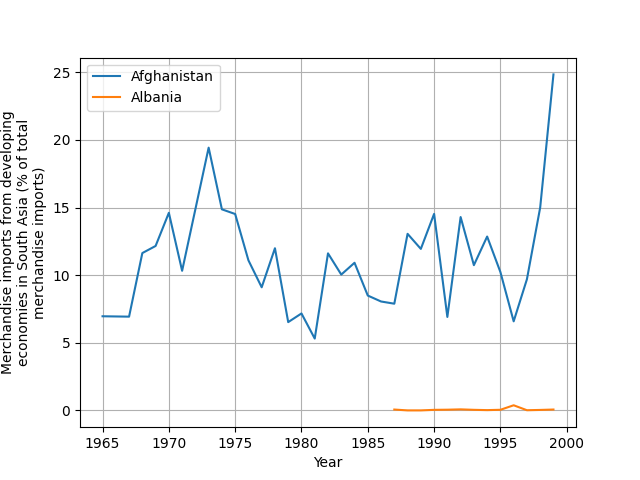
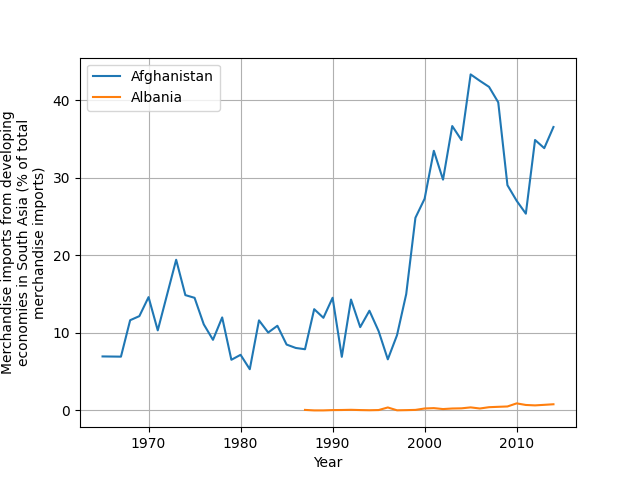
migrated code to run on server.py

diff --git a/world_bank_connect/worldbank_connect.py b/world_bank_connect/worldbank_connect.py
@@ -4,7 +4,7 @@ import psycopg2
 import psycopg2.extras
 from dotenv import load_dotenv
 from flask_cors import CORS
-from plot_graphs import plot_graph
+from world_bank_connect.plot_graphs import plot_graph
 import json
 
 load_dotenv()
@@ -60,18 +60,20 @@ def search():
     error_handler = {'OKAY': '', 'NOINDICATORS': 'Please select an indicator',
                      'LENGTH=0': 'Please select countries and indicator(s)'}
     if request.method == 'POST':
-        # inp = jsonify({'country': ['Afghanistan', 'Albania'], 'indicator': [
-        #               'Merchandise imports from developing economies in South Asia (% of total merchandise imports)'], 'range': ['1964', '1999']})
-        search = request.json
+        inp = jsonify({'country': ['Afghanistan', 'Albania'], 'indicator': [
+                      'Merchandise imports from developing economies in South Asia (% of total merchandise imports)'], 'range': ['1964', '2020']})
+        print(inp)
+        search = inp.json
         error_message = validate_input(search)
         start = search['range'][0]
         end = search['range'][1]
         query = "SELECT countryname,value,year FROM public.indicators WHERE countryname IN %s AND indicatorname IN %s AND year BETWEEN %s AND %s"
+        print(search)
         params = get_params(search)
         results = query_bank_db(query, params)
         plot_graph(results, search['indicator'])
         response = {'results': results, 'errors': error_message}
-        return send_file('./plots/plot.png')
+        return send_file('./world_bank_connect/plots/plot.png')
 
 
 @app.route('/general', methods=['GET'])

diff --git a/server.py b/server.py
@@ -2,7 +2,7 @@ from flask import Flask, current_app, jsonify, request
 from UserAccounts.UserAccountsAPI import *
 from flask_cors import CORS
 from world_bank_connect.worldbank_connect import *
-
+from world_bank_connect.plot_graphs import *
 
 app = Flask(__name__)
 CORS(app, origins='https://localhost:3000')

diff --git a/world_bank_connect/plot_graphs.py b/world_bank_connect/plot_graphs.py
@@ -31,4 +31,4 @@ def plot_graph(results, indicator):
         y = []
     ax.legend()
     ax.grid()
-    fig.savefig('./plots/plot.png')
+    fig.savefig('./world_bank_connect/plots/plot.png')
